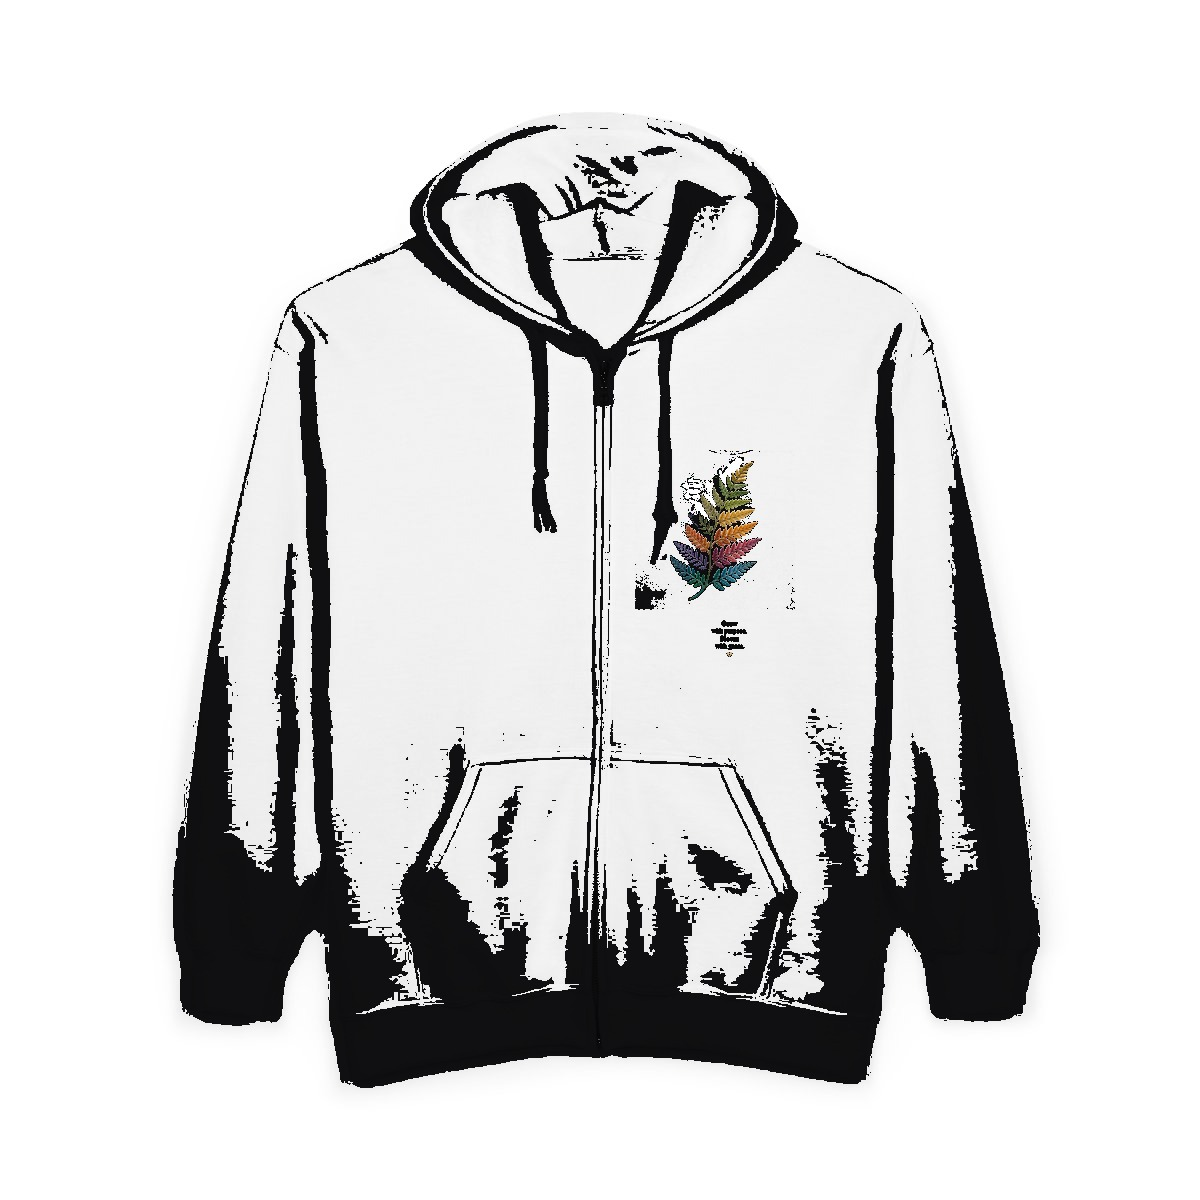
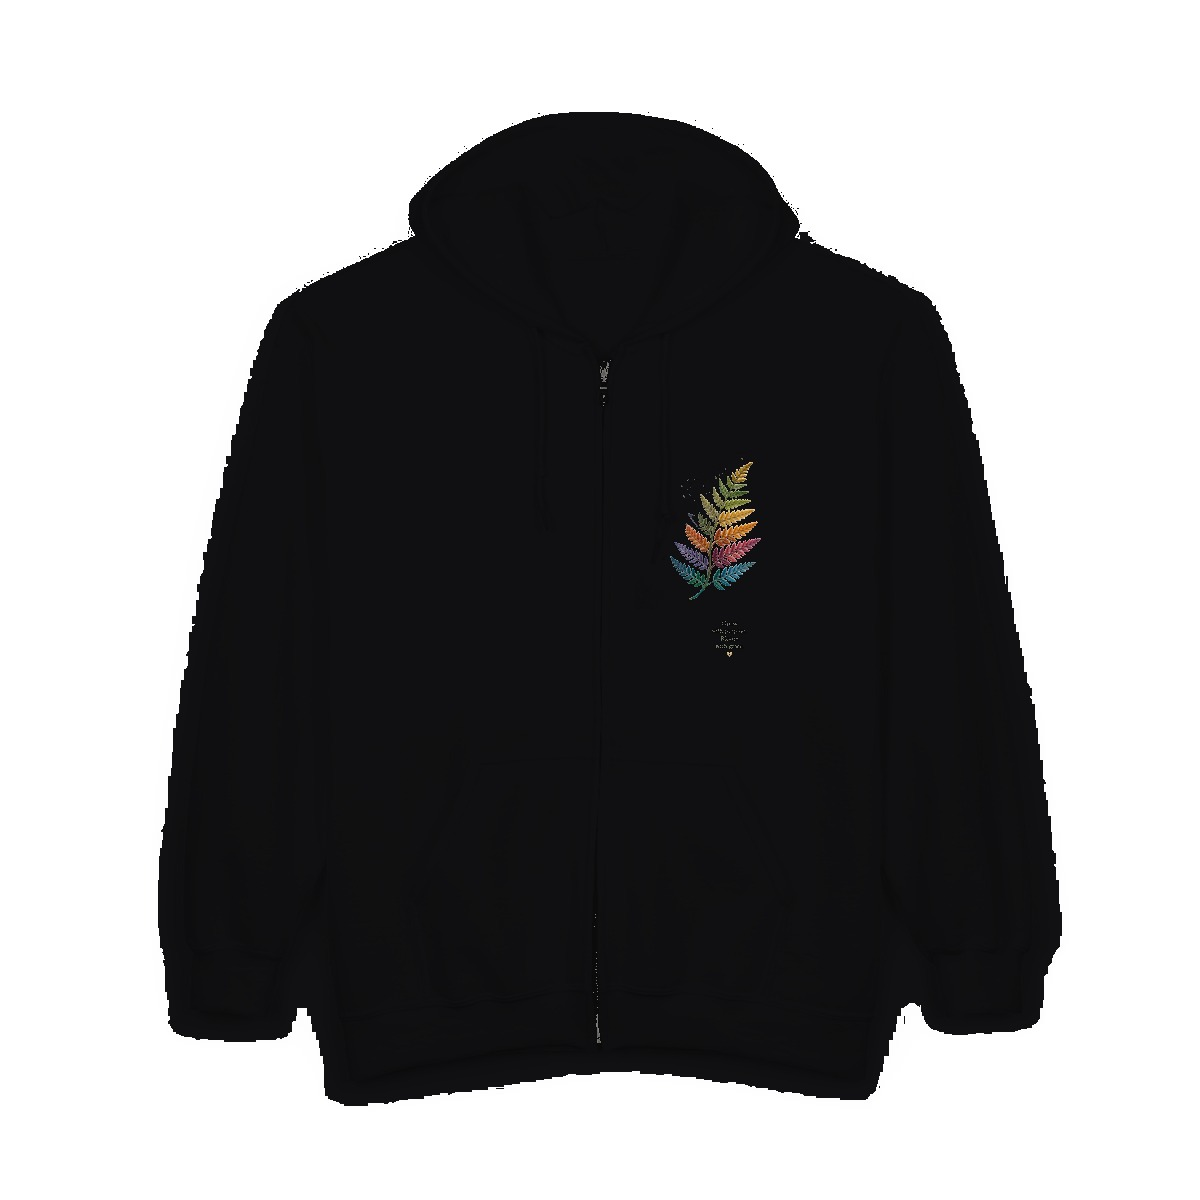
Recolor the whole hoodie and swap the photo with the colour.
The black and navy mockups only tinted the shadow, and Shopify variants had no media, so Black and Navy left the white photo in place. The garment is recolored fully, and each colour is attached once its file is ready.

diff --git a/src/lib/shopify.ts b/src/lib/shopify.ts
@@ -505,6 +505,80 @@ async function ensureShopifyProductGallery(
   }
 }
 
+function mediaStem(name: string) {
+  const base = (name.split("?")[0].split("/").pop() || "").toLowerCase();
+  return base.replace(/\.[a-z0-9]+$/, "").replace(/_[0-9a-f]{8}-[0-9a-f-]{20,}$/i, "");
+}
+
+/** Horizon swaps the photo only when the selected variant has its own media. */
+async function attachShopifyVariantColorMedia(
+  productId: string,
+  product: ReturnType<typeof fernoraCatalog>[number],
+) {
+  const stemByColor = new Map<string, string>();
+  for (const row of product.variants || []) {
+    if (!row.color || !row.imageUrl || stemByColor.has(row.color)) continue;
+    stemByColor.set(row.color, mediaStem(row.imageUrl));
+  }
+  if (stemByColor.size < 2) return;
+  type ListedProduct = {
+    product?: {
+      variants: { nodes: Array<{ id: string; selectedOptions: Array<{ name: string; value: string }> }> };
+      media: {
+        nodes: Array<{
+          id: string;
+          alt?: string | null;
+          status?: string | null;
+          preview?: { image?: { url?: string | null } | null } | null;
+        }>;
+      };
+    } | null;
+  };
+  const mediaQuery = `query ($id: ID!) {
+    product(id: $id) {
+      variants(first: 50) { nodes { id selectedOptions { name value } } }
+      media(first: 30) { nodes { id alt status preview { image { url } } } }
+    }
+  }`;
+  let listed = await shopifyGraphql<ListedProduct>(mediaQuery, { id: productId });
+  for (let attempt = 0; attempt < 10; attempt += 1) {
+    const pending = (listed.product?.media.nodes || []).some(
+      (row) => row.status && row.status !== "READY" && row.status !== "FAILED",
+    );
+    if (!pending) break;
+    await new Promise((resolve) => setTimeout(resolve, 2000));
+    listed = await shopifyGraphql<ListedProduct>(mediaQuery, { id: productId });
+  }
+  const media = listed.product?.media.nodes || [];
+  const variantMedia: Array<{ variantId: string; mediaIds: string[] }> = [];
+  for (const variant of listed.product?.variants.nodes || []) {
+    const color = variant.selectedOptions.find((option) => option.name === "Color")?.value;
+    const stem = color ? stemByColor.get(color) : undefined;
+    if (!stem) continue;
+    const match = media.find((row) => {
+      const fromUrl = mediaStem(row.preview?.image?.url || "");
+      const alt = (row.alt || "").toLowerCase();
+      return fromUrl === stem || alt.endsWith(`${stem}.jpg`) || alt.endsWith(`${stem}.png`);
+    });
+    if (!match) continue;
+    variantMedia.push({ variantId: variant.id, mediaIds: [match.id] });
+  }
+  if (!variantMedia.length) return;
+  const attached = await shopifyGraphql<{
+    productVariantAppendMedia: { userErrors: Array<{ message: string }> };
+  }>(
+    `mutation ($productId: ID!, $variantMedia: [ProductVariantAppendMediaInput!]!) {
+      productVariantAppendMedia(productId: $productId, variantMedia: $variantMedia) {
+        userErrors { field message }
+      }
+    }`,
+    { productId, variantMedia },
+  );
+  if (attached.productVariantAppendMedia.userErrors.length) {
+    throw new Error(attached.productVariantAppendMedia.userErrors.map((row) => row.message).join("; "));
+  }
+}
+
 async function shopifyVariantsWithColorPhotos(
   product: ReturnType<typeof fernoraCatalog>[number],
   clothing: ReturnType<typeof shopifyProductOptions>,
@@ -676,6 +750,7 @@ export async function syncFernoraCatalogToShopify(request?: Request, onlyIds?: s
     }
     try {
       await ensureShopifyProductGallery(node.id, product, request);
+      await attachShopifyVariantColorMedia(node.id, product);
     } catch (error) {
       notes.push(`${product.title}: mockups (${(error as Error).message})`);
     }

diff --git a/src/lib/shop.test.ts b/src/lib/shop.test.ts
@@ -155,6 +155,7 @@ test("customer-facing shop copy does not name Gelato as the supplier", () => {
   assert.match(shopifySource, /stagedUploadsCreate/);
   assert.match(shopifySource, /name: "Size"/);
   assert.match(shopifySource, /shopifyVariantsWithColorPhotos/);
+  assert.match(shopifySource, /productVariantAppendMedia/);
   assert.match(shopifySource, /optionName === "Color"/);
   assert.match(shopifySource, /productDeleteMedia/);
   assert.match(shopifySource, /existsSync/);

diff --git a/scripts/layout-hoodie-bloom.py b/scripts/layout-hoodie-bloom.py
@@ -172,9 +172,10 @@ def paint_on_base(design: np.ndarray) -> np.ndarray:
 
 
 def background_mask(rgb: np.ndarray) -> np.ndarray:
+    """Studio backdrop only. The white hoodie itself is about 230–248, so a looser cut paints just the shadows."""
     luma = rgb.mean(axis=2)
     chroma = np.max(rgb, axis=2) - np.min(rgb, axis=2)
-    light = (luma > 235) & (chroma < 12)
+    light = (luma > 252) & (chroma < 6)
     h, w = light.shape
     bg = np.zeros(light.shape, dtype=bool)
     stack = [(0, 0), (0, w - 1), (h - 1, 0), (h - 1, w - 1)]
@@ -191,9 +192,10 @@ def recolor_garment(rgb: np.ndarray, garment: tuple[int, int, int]) -> np.ndarra
     out = rgb.astype(np.float32)
     luma = 0.299 * out[:, :, 0] + 0.587 * out[:, :, 1] + 0.114 * out[:, :, 2]
     chroma = np.max(out, axis=2) - np.min(out, axis=2)
-    fabric = ~background_mask(rgb) & (chroma < 28) & (luma > 90)
-    shade = np.clip((luma - 70) / 185, 0.15, 1)
-    tint = np.array(garment, np.float32).reshape(1, 1, 3) * (0.25 + 0.75 * shade[:, :, None])
+    # Keep the fern and the dark quote. Recolor the rest of the garment, including the bright panels.
+    fabric = ~background_mask(rgb) & (chroma < 28) & (luma > 130)
+    shade = np.clip((luma - 160) / 95, 0.35, 1)
+    tint = np.array(garment, np.float32).reshape(1, 1, 3) * (0.45 + 0.55 * shade[:, :, None])
     out[fabric] = tint[fabric]
     return np.clip(out, 0, 255).astype(np.uint8)
 
